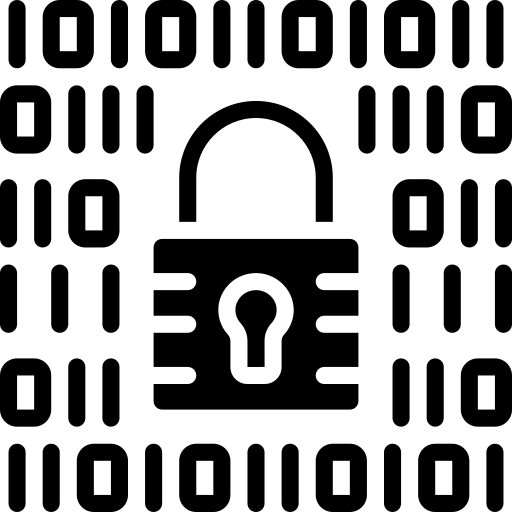
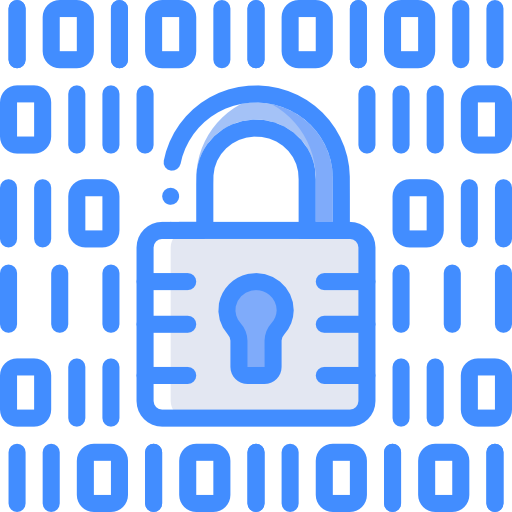
add security courses images

diff --git a/website/templates/course2.html b/website/templates/course2.html
@@ -55,7 +55,7 @@
                                 </div>
                             </div>
                             <div class="w-md-25 d-sm-hidden">
-                                <img class="rotate-half-on-hover mt-2rem" src="{% static 'website-theme/images/img/networking-2.svg' %}" alt="image">
+                                <img class="rotate-half-on-hover mt-2rem" src="{% static 'website-theme/images/course_icon/Networking.png' %}" alt="image">
                             </div>
                         </div>
                     </div>
@@ -92,7 +92,7 @@
                                 </div>
                             </div>
                             <div class="w-md-25 d-sm-hidden">
-                                <img class="rotate-half-on-hover mt-2rem" src="{% static 'website-theme/images/img/linux-fundamental-2.svg' %}" alt="image">
+                                <img class="rotate-half-on-hover mt-2rem" src="{% static 'website-theme/images/course_icon/Fundamentals_Cybersecurity.png' %}" alt="image">
                             </div>
                         </div>
                     </div>
@@ -129,7 +129,7 @@
                                 </div>
                             </div>
                             <div class="w-md-25 d-sm-hidden">
-                                <img class="rotate-half-on-hover mt-2rem" src="{% static 'website-theme/images/img/software-1-development.svg' %}" alt="image">
+                                <img class="rotate-half-on-hover mt-2rem" src="{% static 'website-theme/images/course_icon/Security_Centre.png' %}" alt="image">
                             </div>
                         </div>
                     </div>
@@ -170,7 +170,7 @@
                                 </div>
                             </div>
                             <div class="w-md-25 d-sm-hidden">
-                                <img class="rotate-half-on-hover mt-2rem" src="{% static 'website-theme/images/img/cyber-security-2.svg' %}" alt="image">
+                                <img class="rotate-half-on-hover mt-2rem" src="{% static 'website-theme/images/course_icon/Data_Collection.png' %}" alt="image">
                             </div>
                         </div>
                     </div>
@@ -207,7 +207,7 @@
                                 </div>
                             </div>
                             <div class="w-md-25 d-sm-hidden">
-                                <img class="rotate-half-on-hover mt-2rem" src="{% static 'website-theme/images/img/application-security-2.svg' %}" alt="image">
+                                <img class="rotate-half-on-hover mt-2rem" src="{% static 'website-theme/images/course_icon/SOC_Processes.png' %}" alt="image">
                             </div>
                         </div>
                     </div>
@@ -240,7 +240,7 @@
                                 </div>
                             </div>
                             <div class="w-md-25 d-sm-hidden">
-                                <img class="rotate-half-on-hover mt-2rem" src="{% static 'website-theme/images/img/app-vulnerabilities-2.svg' %}" alt="image">
+                                <img class="rotate-half-on-hover mt-2rem" src="{% static 'website-theme/images/course_icon/Threat _intelligence.png' %}" alt="image">
                             </div>
                         </div>
                     </div>
@@ -277,7 +277,7 @@
                                 </div>
                             </div>
                             <div class="w-md-25 d-sm-hidden">
-                                <img class="rotate-half-on-hover mt-2rem" src="{% static 'website-theme/images/img/awas-2.svg' %}" alt="image">
+                                <img class="rotate-half-on-hover mt-2rem" src="{% static 'website-theme/images/course_icon/Web_Security.png' %}" alt="image">
                             </div>
                         </div>
                     </div>
@@ -318,7 +318,7 @@
                                 </div>
                             </div>
                             <div class="w-md-25 d-sm-hidden">
-                                <img class="rotate-half-on-hover mt-2rem" src="{% static 'website-theme/images/img/scanner-2.svg' %}" alt="image">
+                                <img class="rotate-half-on-hover mt-2rem" src="{% static 'website-theme/images/course_icon/SOC_Technologies.png' %}" alt="image">
                             </div>
                         </div>
                     </div>

diff --git a/website/templates/course1.html b/website/templates/course1.html
@@ -56,7 +56,7 @@
                                 </div>
                             </div>
                             <div class="w-md-25 d-sm-hidden">
-                                <img class="rotate-half-on-hover mt-2rem" src="{% static 'website-theme/images/course_icon/computer.png' %}" alt="image">
+                                <img class="rotate-half-on-hover mt-2rem" src="{% static 'website-theme/images/course_icon/Networking.png' %}" alt="image">
                             </div>
                         </div>
                     </div>

diff --git a/csa/static/website-theme/css/website-css/main.css b/csa/static/website-theme/css/website-css/main.css
@@ -4342,4 +4342,24 @@ font-size: 28px;
      height: 91vh; 
      height: unset; 
 }
+@media only screen and (max-width: 640px) and (min-width: 320px){
+	.features-list .feature-list-div {
+	    padding: 12px;
+	    width: 100%; 
+	}
+	.h-md-90vh {
+    	/* height: 91vh; */
+   	 	height: 100%;
+	}
+	.nav-primary__items {
+	    height: auto;
+	}
+	.nav-primary-items__ctas {
+	    position: relative;
+	    left: unset;
+	    bottom: 4%;
+	    width: 100%;
+	    padding: 60px 0.5em;
+	    margin: 0 auto;
+	}
 }
